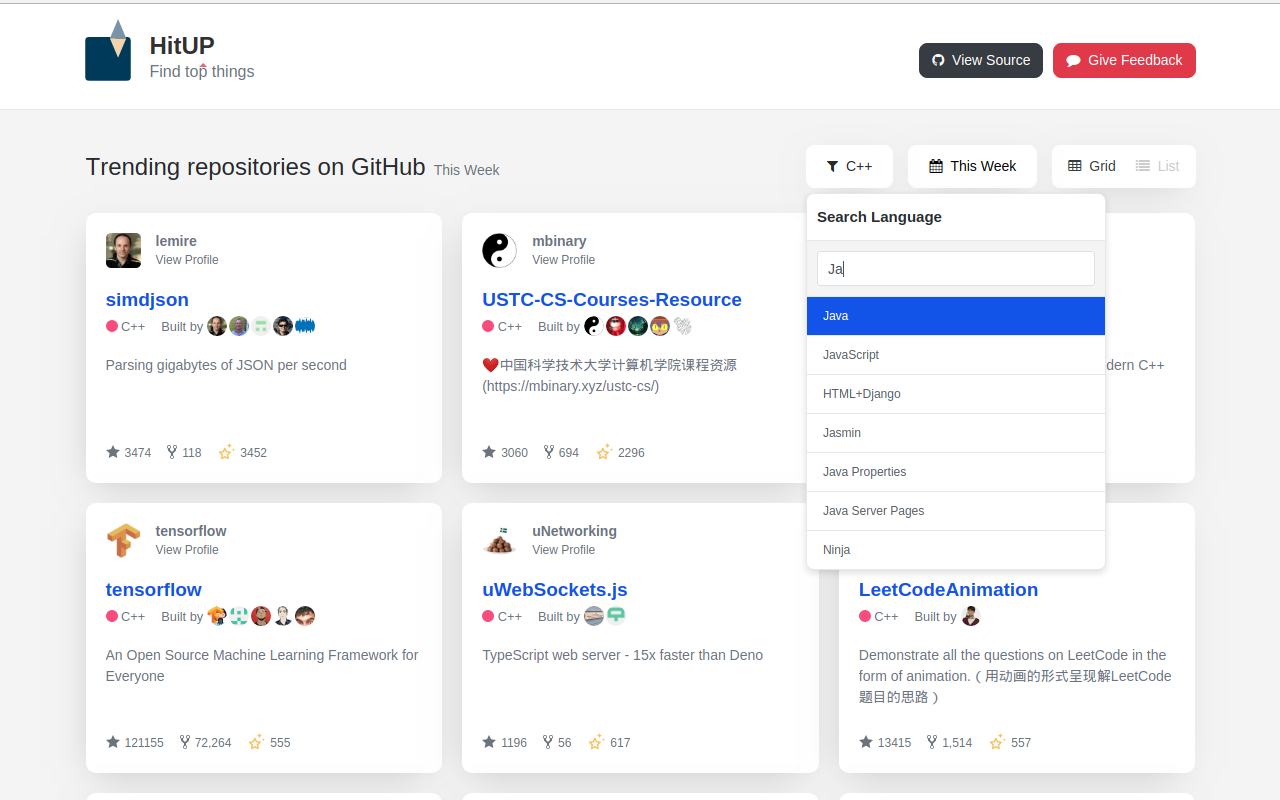
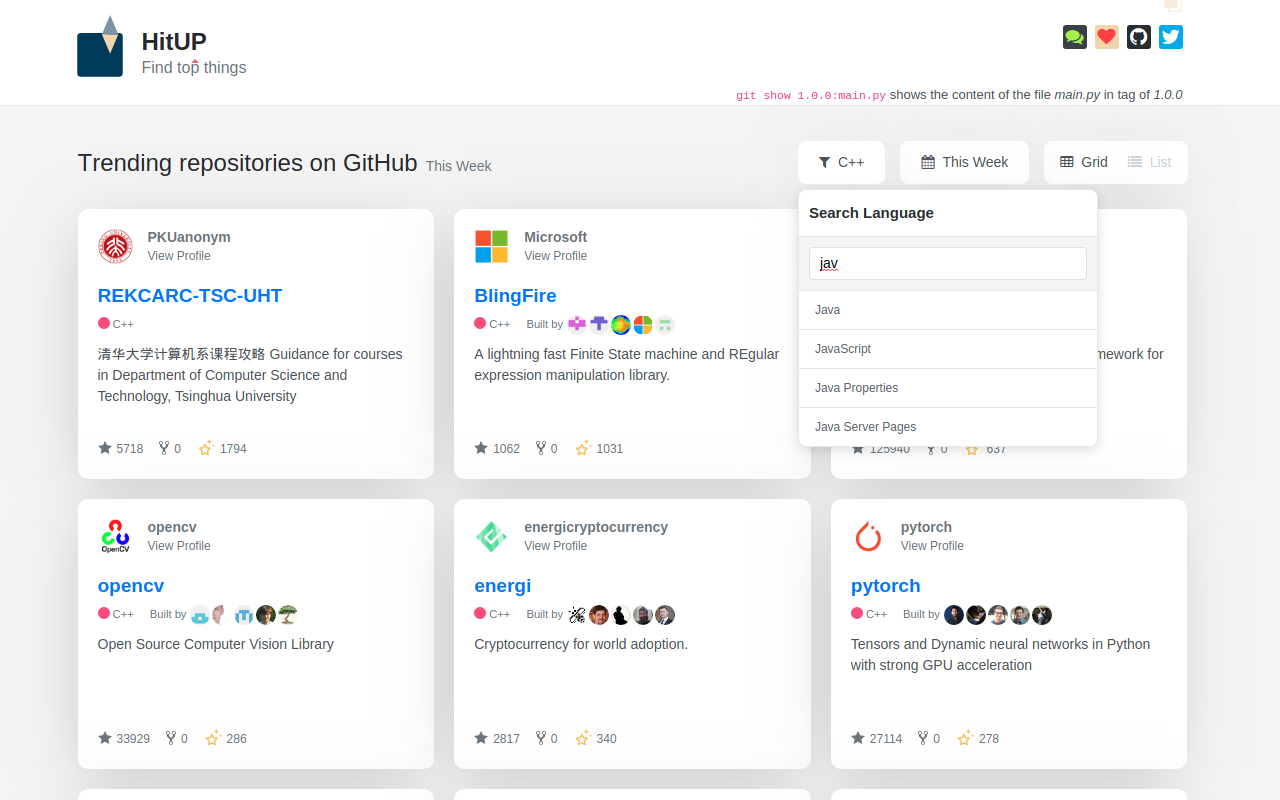
update screenshots

diff --git a/readme.md b/readme.md
@@ -44,20 +44,18 @@
 <p align="center">
   <img alt="HitUP" src="./screenshots/trending-repo-list.png">
   <br><b>▲ Trending Repositories This Week – List View</b><br>
-  <sub>💥 Change the view options from the filters list 💥</sub>
 </p>
 
 <p align="center">
   <img alt="HitUP" src="./screenshots/filter-by-lang.png">
   <br><b>▲ Filter by Language</b><br>
-  <sub>💥 Will remember your selection of language 💥</sub>
 </p>
 
 
 ## Installation
 
-* Use Online – https://hitup.wondertools.top
 * Chrome Extension – https://wonder.page.link/hitup-chrome
+* Use Online – https://hitup.wondertools.top
 
 ## Contributions
 
